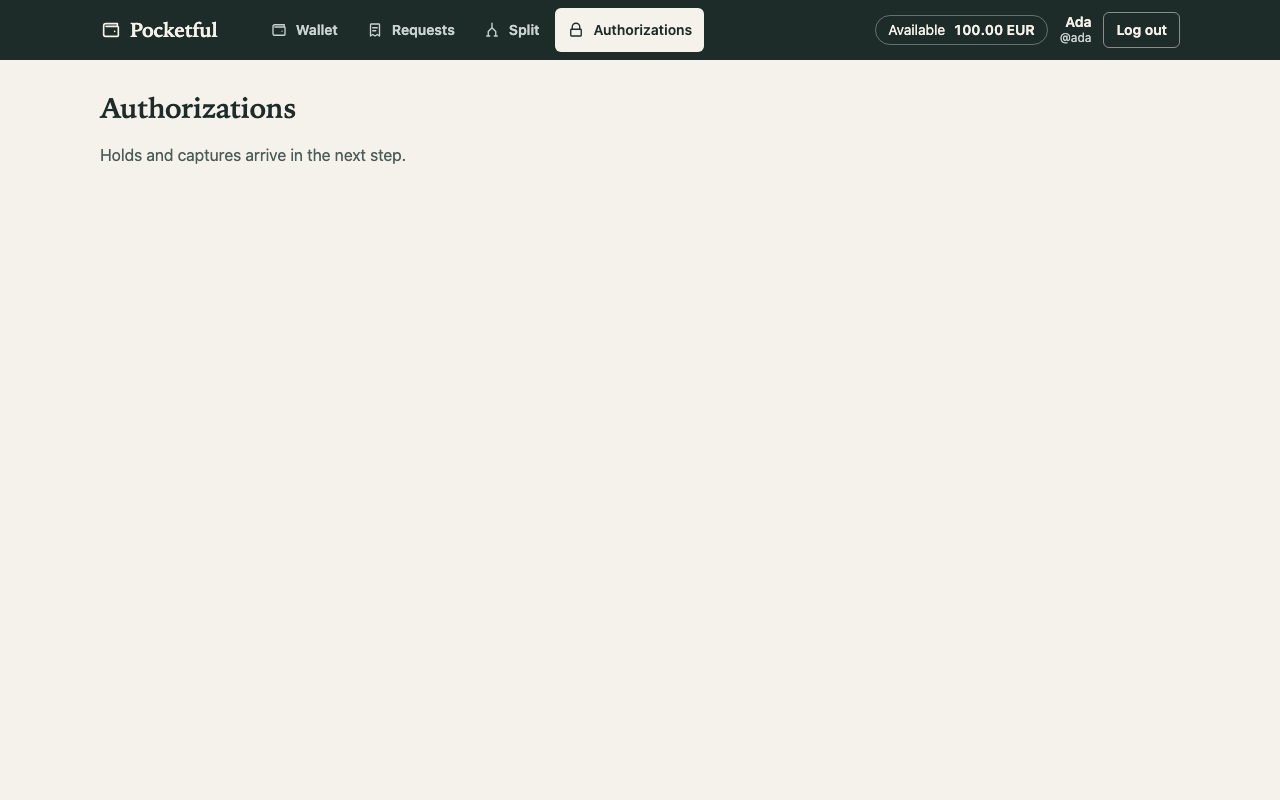
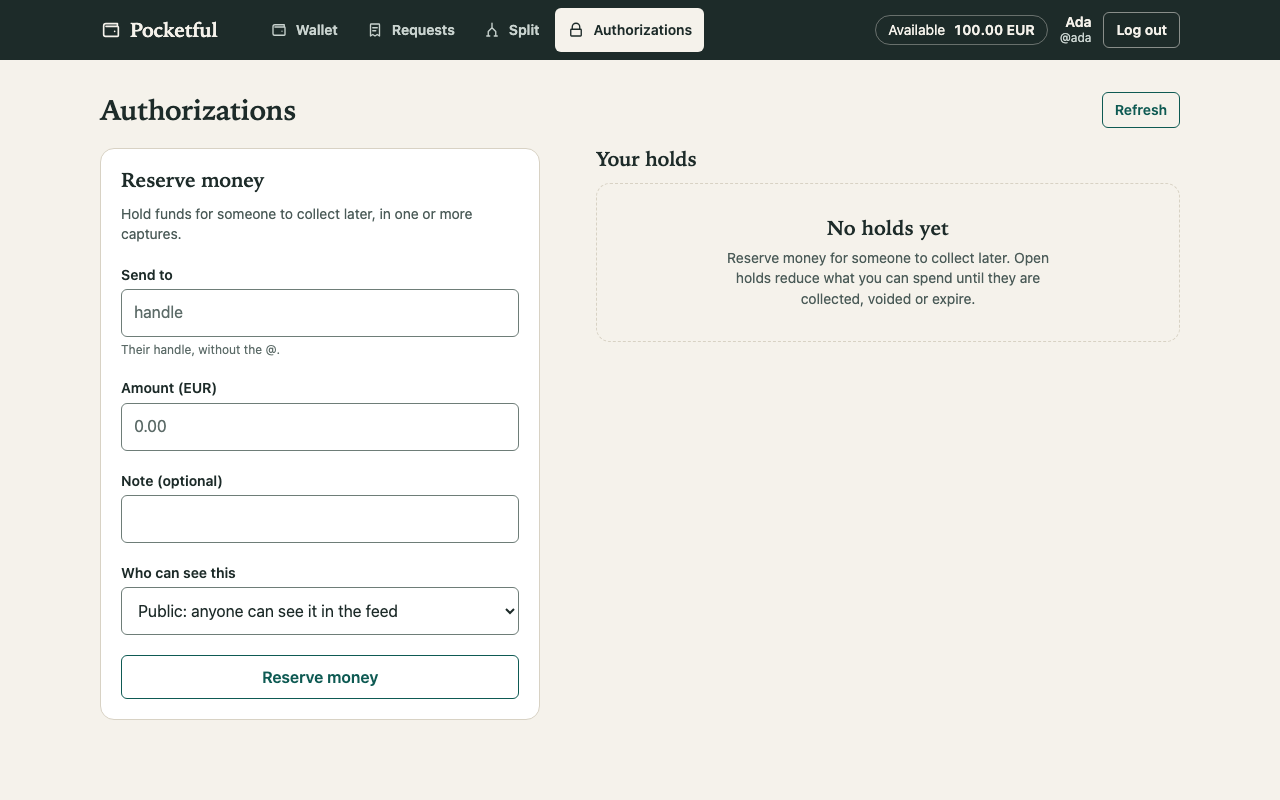
fix(S2.U9): /signup and /login render their forms while signed in; submitting switches accounts

diff --git a/stage-2/web/assets/js/screens/auth.js b/stage-2/web/assets/js/screens/auth.js
@@ -56,14 +56,22 @@ function authForm({ kind, fields, submitLabel, testid, path, build, after, intro
   return form;
 }
 
-function shell({ title, lede, form, alt }) {
+function signedInNote(me) {
+  if (!me) return null;
+  return h("div", { class: "notice notice--info auth__signed-in", "data-role": "signed-in-note" }, icon("info"),
+    h("div", { class: "notice__body" }, `You're signed in as ${me.display_name}. `,
+      h("a", { href: "/", "data-link": "", text: "Continue to your wallet" }),
+      ". Submitting this form switches to the other account."));
+}
+
+function shell({ title, lede, form, alt, me }) {
   return h("div", { class: "auth" },
     h("div", { class: "auth__lede" }, h("h1", { text: title }), h("p", { text: lede }), h("div", { class: "ledger-rules", "aria-hidden": "true" })),
-    h("section", { class: "panel auth__panel" }, h("h2", { text: alt.heading }), form,
+    h("section", { class: "panel auth__panel" }, h("h2", { text: alt.heading }), signedInNote(me), form,
       h("p", { class: "auth__alt" }, alt.text, " ", h("a", { href: alt.href, "data-link": "", text: alt.link }))));
 }
 
-export async function loginScreen({ go }) {
+export async function loginScreen({ go, me }) {
   const email = field({ id: "login-email", label: "Email", testid: "login-email", type: "email", autocomplete: "username", required: true });
   const password = passwordField({ id: "login-password", label: "Password", testid: "login-password", autocomplete: "current-password" });
   const form = authForm({
@@ -72,10 +80,10 @@ export async function loginScreen({ go }) {
     after: () => go("/", { replace: true }),
   });
   return shell({ title: "Money that moves when you say so.", lede: "Send, request and reserve funds with a wallet that always tells you exactly what you can spend.", form,
-    alt: { heading: "Log in", text: "New here?", href: "/signup", link: "Create an account" } });
+    me, alt: { heading: "Log in", text: "New here?", href: "/signup", link: "Create an account" } });
 }
 
-export async function signupScreen({ go }) {
+export async function signupScreen({ go, me }) {
   const name = field({ id: "signup-display-name", label: "Display name", testid: "signup-display-name", autocomplete: "name", required: true });
   const email = field({ id: "signup-email", label: "Email", testid: "signup-email", type: "email", autocomplete: "email", required: true,
     hint: "Your handle is made from the part before the @." });
@@ -86,5 +94,5 @@ export async function signupScreen({ go }) {
     after: () => go("/", { replace: true }),
   });
   return shell({ title: "A calm place for everyday money.", lede: "Open a wallet in a minute. You can pay anyone by handle and see every movement in plain words.", form,
-    alt: { heading: "Create your account", text: "Already have one?", href: "/login", link: "Log in" } });
+    me, alt: { heading: "Create your account", text: "Already have one?", href: "/login", link: "Log in" } });
 }

diff --git a/stage-2/web/assets/js/app.js b/stage-2/web/assets/js/app.js
@@ -79,7 +79,6 @@ async function render() {
   let state = authToken() ? await loadMe() : "signed-out";
   if (mine !== renderToken) return;
   if (state === "signed-out" && !isPublic) return go("/login", { replace: true });
-  if (state === "ok" && isPublic) return go("/", { replace: true });
 
   const me = state === "ok" || state === "unreachable" ? currentUser() : null;
   const { header, main, tabbar } = chrome(path, state === "ok" ? me : null);

diff --git a/stage-2/web/assets/css/screens.css b/stage-2/web/assets/css/screens.css
@@ -116,3 +116,5 @@
 .input--small { min-height: 40px; }
 .check { display: inline-flex; align-items: center; gap: var(--s2); min-height: var(--tap); font-size: var(--t-sm); }
 .check input { width: 20px; height: 20px; accent-color: var(--accent); }
+
+.auth__signed-in { margin-bottom: var(--s4); }

diff --git a/stage-2/tools/ui_check.py b/stage-2/tools/ui_check.py
@@ -135,6 +135,24 @@ def check_auth(browser):
             pg.no_hscroll(route)
         pg.shot("auth", "signed-in-shell")
 
+        # a session does not hide /signup or /login: the forms render, and submitting switches accounts
+        for route, submit in (("/signup", "signup-submit"), ("/login", "login-submit")):
+            page.goto(BASE + route)
+            pg.t(submit).wait_for()
+            check(pg.t("current-user").is_visible() and pg.t("current-handle").text_content() == "ada", f"signed-in chrome on {route}")
+            pg.no_hscroll(route + " signed in")
+        pg.shot("auth", "login-while-signed-in")
+        pg.t("login-email").fill("bob@example.com")
+        pg.t("login-password").fill(PASSWORD)
+        pg.t("login-submit").click()
+        page.wait_for_url(BASE + "/")
+        pg.wait_text("current-handle", "bob")
+        page.goto(BASE + "/login")
+        pg.t("login-email").fill("ada@example.com")
+        pg.t("login-password").fill(PASSWORD)
+        pg.t("login-submit").click()
+        pg.wait_text("current-handle", "ada")
+
         # token survives a reload; logout clears it
         page.reload()
         pg.t("current-user").wait_for()
